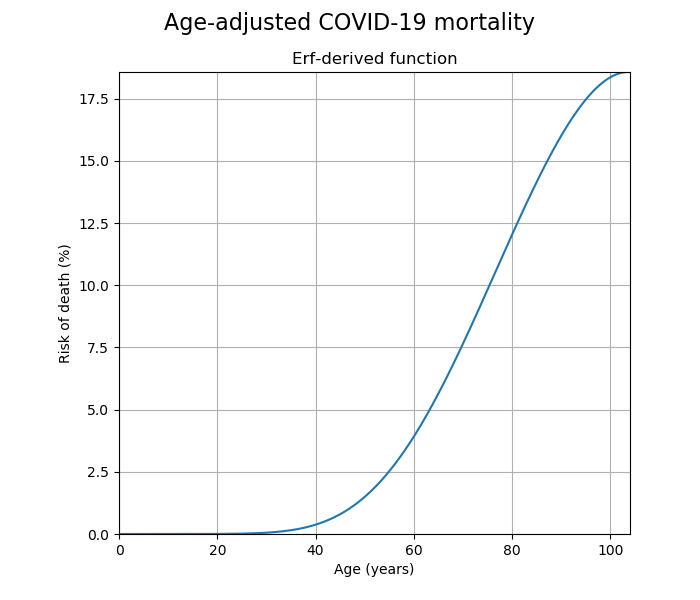
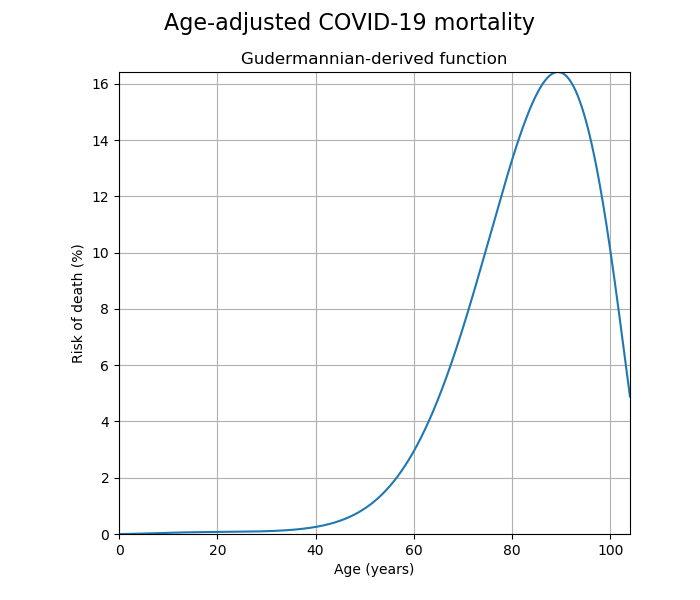
Updated models
A small number of centennials with positive outcomes makes the curve bend down in that region

diff --git a/script.py b/script.py
@@ -37,7 +37,7 @@ up to five arguments:
 - a tuple of integers with the numbers of functions you want to fit
   (starting at zero): e.g., (0,), (0, 3), (5, 2), (0, 1, 4, 5, 6, 7,
   8, 9)
-- an integer with the order of the internal polymonial, which can be in
+- an integer with the order of the internal polynomial, which can be in
   the range from 2 to 7
 
 It return an object of the class bestFit defined in the same wrapper
@@ -79,7 +79,7 @@ def ingestData(dataFile: str) -> pd.DataFrame:
     latestDate = df[['symptom_onset_date','confirmed_date','deceased_date','released_date']].max(skipna=True).max()
     df['earliest_date'] = df[['symptom_onset_date','confirmed_date']].min(skipna=True, axis=1)
     df['death_on_date'] = df['deceased_date'] - df['earliest_date']
-    df = df[(latestDate - df.earliest_date > df['death_on_date'].dropna().quantile(.95)) & (df.birth_year.isna()==False)]    # it was an arbitrary decision to remove all cases that are younger than 95%-percentile of days-to-death from first symptoms or diagnosis confirmation whichever is earlier. You can adjust it with a more rigorous rationale. If all cases are left, (especially on the rising pandemics) the mortality is expected to be underestimated
+    df = df[(latestDate - df.earliest_date > df['death_on_date'].dropna().quantile(.90)) & (df.birth_year.isna()==False)]    # it was an arbitrary decision to remove all cases that are younger than 90%-percentile of days-to-death from first symptoms or diagnosis confirmation whichever is earlier. You can adjust it with a more rigorous rationale. If all cases are left, (especially on the rising pandemics) the mortality is expected to be underestimated
     df['age'] = 2020 - df['birth_year']       # in case the dataset has full birth dates instead of birth years, the data type for this variable was left float64/double both in numpy/pandas and the shared C library
     df['outcome'] = np.where(df.state == 'deceased', 1, 0)
     df['age'] = np.where(df.age == 0.0, 1e-8, df.age)
